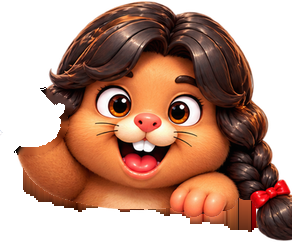
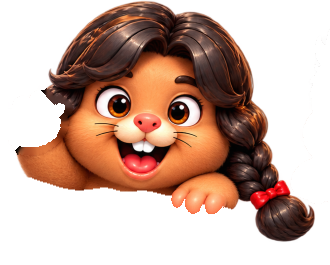
mole v982: 홈 광산 뒤(땋은머리)·제일 왼쪽(해바라기) 두더지를 원본 시안으로 다시 잘라 넣고 살짝 내려 앞 턱이 가리게(나무·노이즈·틈 제거, 땋은머리 끝까지)
Claude-Session: https://claude.ai/code/session_01GirAya7RX91uMc859bmUVe

diff --git a/mole/index.html b/mole/index.html
@@ -203,7 +203,7 @@
             <i class="hm-glow" style="left:97.6%;top:55.4%;--d:1.4s;--t:3.0s"></i>
             <i class="hm-glow" style="left:21.5%;top:82.9%;--d:0.5s;--t:2.5s"></i>
             <div class="hm-piece hm-mole hm-pink"><div class="hm-pop"><img class="hm-body" src="assets/home2/mole-pink-x.png" alt=""><i class="hm-lid" style="left:32.12%;top:41.67%;width:11.16%;height:18.23%;--fur:#cf6a35;animation-delay:0.3s"></i><i class="hm-lid" style="left:59.71%;top:41.67%;width:12.22%;height:18.23%;--fur:#cf6a35;animation-delay:0.3s"></i></div></div>
-            <div class="hm-piece hm-mole hm-braid"><div class="hm-pop"><img class="hm-body" src="assets/home2/wave-braid-base.png" alt=""><img class="hm-hand" src="assets/home2/wave-braid-part.png" alt=""><i class="hm-lid" style="left:31.84%;top:35.37%;width:13.04%;height:15.62%;--fur:#cd6734;animation-delay:2.1s"></i><i class="hm-lid" style="left:58.86%;top:38.18%;width:10.71%;height:16.20%;--fur:#cd6734;animation-delay:2.1s"></i></div></div>
+            <div class="hm-piece hm-mole hm-braid"><div class="hm-pop"><img class="hm-body" src="assets/home2/wave-braid-base.png" alt=""><img class="hm-hand" src="assets/home2/wave-braid-part.png" alt=""><i class="hm-lid" style="left:28.17%;top:32.3%;width:11.54%;height:14.26%;--fur:#cd6734;animation-delay:2.1s"></i><i class="hm-lid" style="left:52.08%;top:34.87%;width:9.48%;height:14.79%;--fur:#cd6734;animation-delay:2.1s"></i></div></div>
             <div class="hm-piece hm-mole hm-sun"><div class="hm-pop"><img class="hm-body" src="assets/home2/wave-sun-base.png" alt=""><img class="hm-hand" src="assets/home2/wave-sun-part.png" alt=""></div></div>
             <div class="hm-piece hm-mole hm-punk"><div class="hm-pop"><img class="hm-body" src="assets/home2/mole-punk-x.png" alt=""><i class="hm-lid" style="left:25.13%;top:44.15%;width:13.34%;height:16.37%;--fur:#f08542;animation-delay:1.2s"></i><i class="hm-lid" style="left:63.31%;top:48.07%;width:14.20%;height:15.56%;--fur:#f08542;animation-delay:1.2s"></i></div></div>
             <div class="hm-piece hm-mole hm-cap"><div class="hm-pop"><img class="hm-body" src="assets/home2/wave-cap-base.png" alt=""><img class="hm-hand" src="assets/home2/wave-cap-part.png" alt=""><i class="hm-lid" style="left:34.80%;top:32.93%;width:19.48%;height:20.88%;--fur:#e6773a;animation-delay:3.0s"></i></div></div>
@@ -878,7 +878,7 @@
         <!-- 배포 버전 표식(스크린샷으로 어느 버전인지 확인용) — 화면 좌하단에 두면 다른 UI에
              가려 잘 안 보인다는 사용자 지적으로, 하트 아이콘(다이얼패드 1번 칸) 바로 위로 이동. -->
         <div class="h2-preload" aria-hidden="true"></div><!-- v951: 게임 중 버튼 색(초록·노랑·빨강·분홍·회색) 미리 읽어 두기 — 처음 바뀔 때 깜빡임 방지 -->
-        <div id="build-tag" aria-hidden="true">v981</div>
+        <div id="build-tag" aria-hidden="true">v982</div>
         <!-- 피버타임(터치캐치 보너스타임) 전광판 — 버튼보드 자리를 통째로 덮는 오버레이,
              평소엔 hidden, 피버 중에만 콤보/잔여시간 표시(사용자 지정: "전광판처럼"). -->
         <div id="fever-scoreboard" class="fever-scoreboard" hidden>
@@ -1137,7 +1137,7 @@ window.FGH.rollOut = function (el, done) {
       } else {
         // ?v= 로 매 배포마다 URL을 바꿔서 GitHub Pages의 sw.js 캐시(max-age=600)를 무조건 우회 —
         // 안 그러면 배포 직후에도 최대 10분간 옛 서비스워커가 안 갈리는 경우가 있었음(사용자 보고).
-        navigator.serviceWorker.register('sw.js?v=981').catch(function () {});
+        navigator.serviceWorker.register('sw.js?v=982').catch(function () {});
       }
     });
   }

diff --git a/mole/style.css b/mole/style.css
@@ -6454,3 +6454,7 @@ html, body, .cosmic-bg { background: #2a190d; }
 /* v979(사용자 지정): 퀘스트·업적 제목 글자를 나무판 가운데로 */
 .qs-title { top: 30%; left: 45%; }
 .qs-screen[data-mode="ach"] .qs-title { top: 37%; left: 37%; }
+/* v982(사용자 지정): 뒤(땋은머리) 두더지 살짝 아래로 — 몸 아래가 앞 턱 뒤로 들어가게 */
+.hm-braid { top: 45.4%; width: 22.92%; } /* 그림 칸 넓힘(292→330, 242→265) — 땋은머리 끝까지 보이게, 배율 그대로 */
+.hm-braid .hm-hand { transform-origin: 10.88% 58.08%; }
+.hm-sun { top: 56.9%; } /* v982(사용자 지정): 해바라기 두더지 살짝 아래로 — 몸 아래가 앞 턱 뒤로 */

diff --git a/mole/sw.js b/mole/sw.js
@@ -3,7 +3,7 @@
 // 폴백 전용으로만 갱신한다. (예전엔 stale-while-revalidate라 배포해도 "다음 실행"에야
 // 반영돼 사용자 체감 대기가 길었음 — 온라인=항상 최신, 오프라인=마지막 캐시로 변경.)
 // SHELL 목록 자체가 바뀔 때만 CACHE 를 올린다.
-const CACHE = 'mole-game-v981';
+const CACHE = 'mole-game-v982';
 
 // 화면별 BGM(audio/bgm-*.mp3)은 v275 부터 SHELL 에 포함 — 기본 켜짐(v272)이라 항상 필요하고,
 // 캐시가 안 돼 있으면 오프라인/느린망에서 재생 실패했음.
